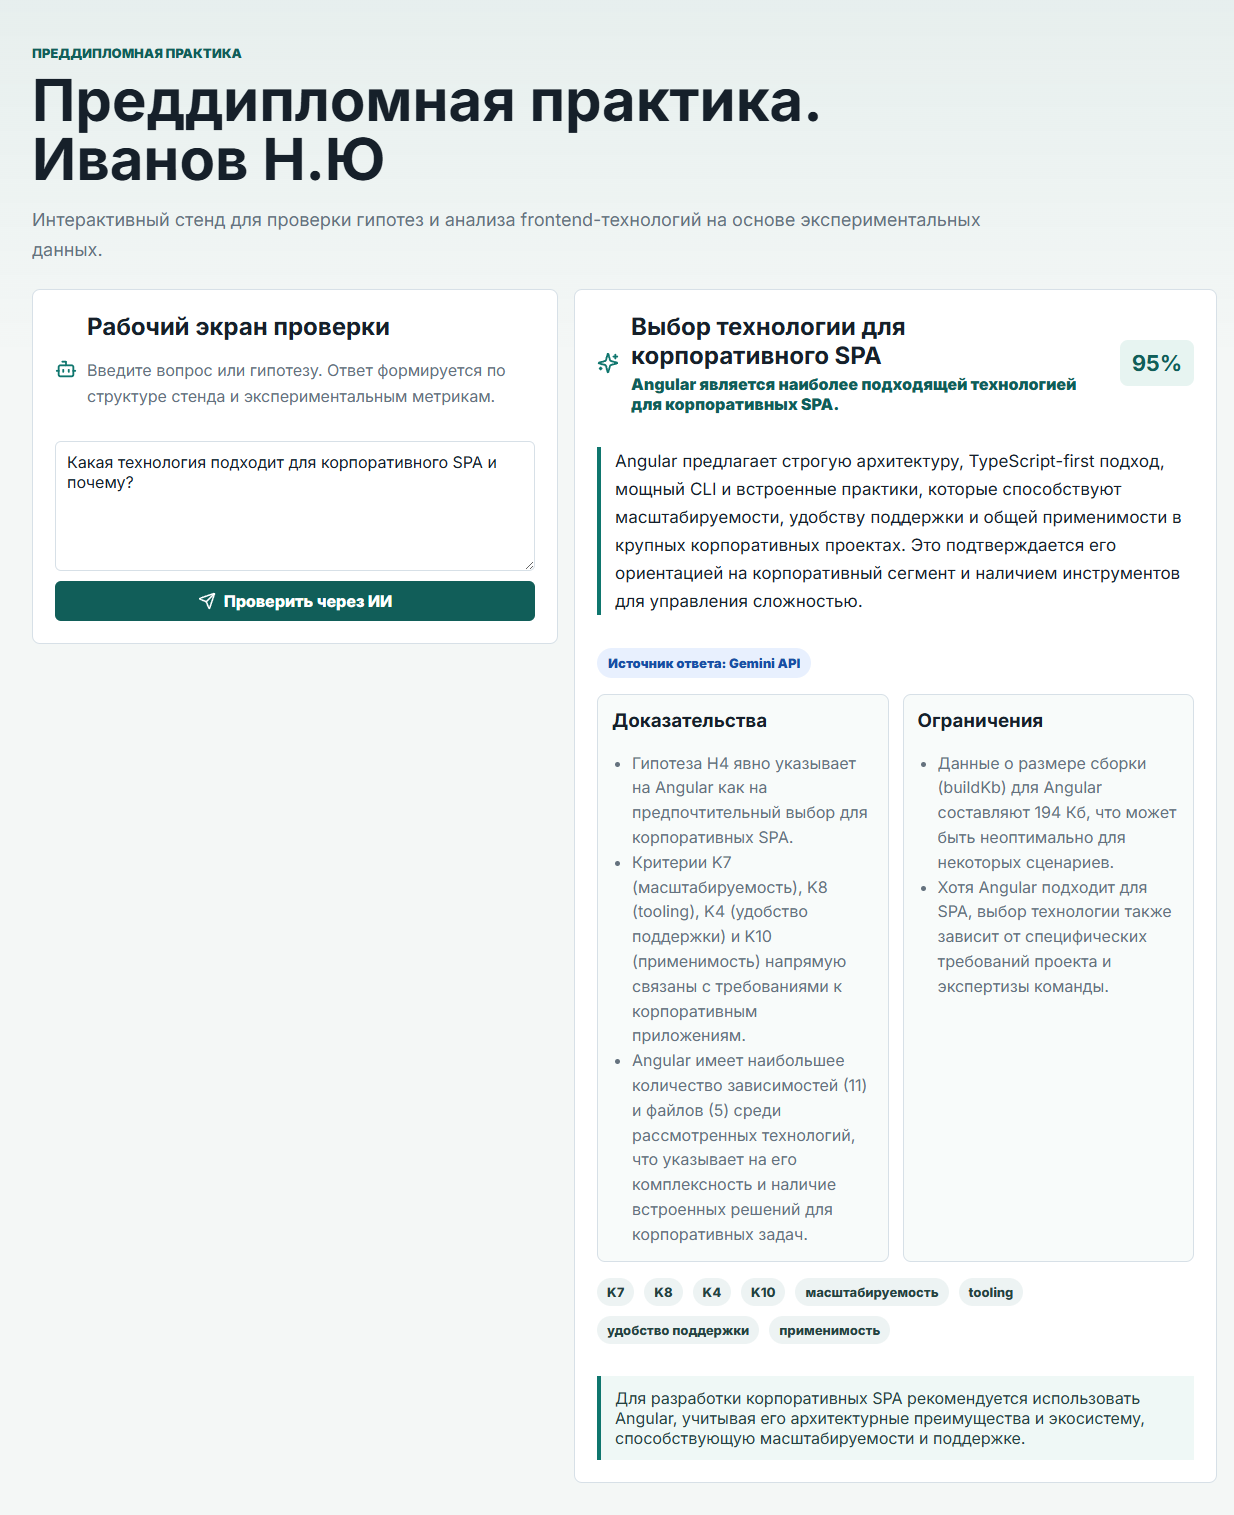
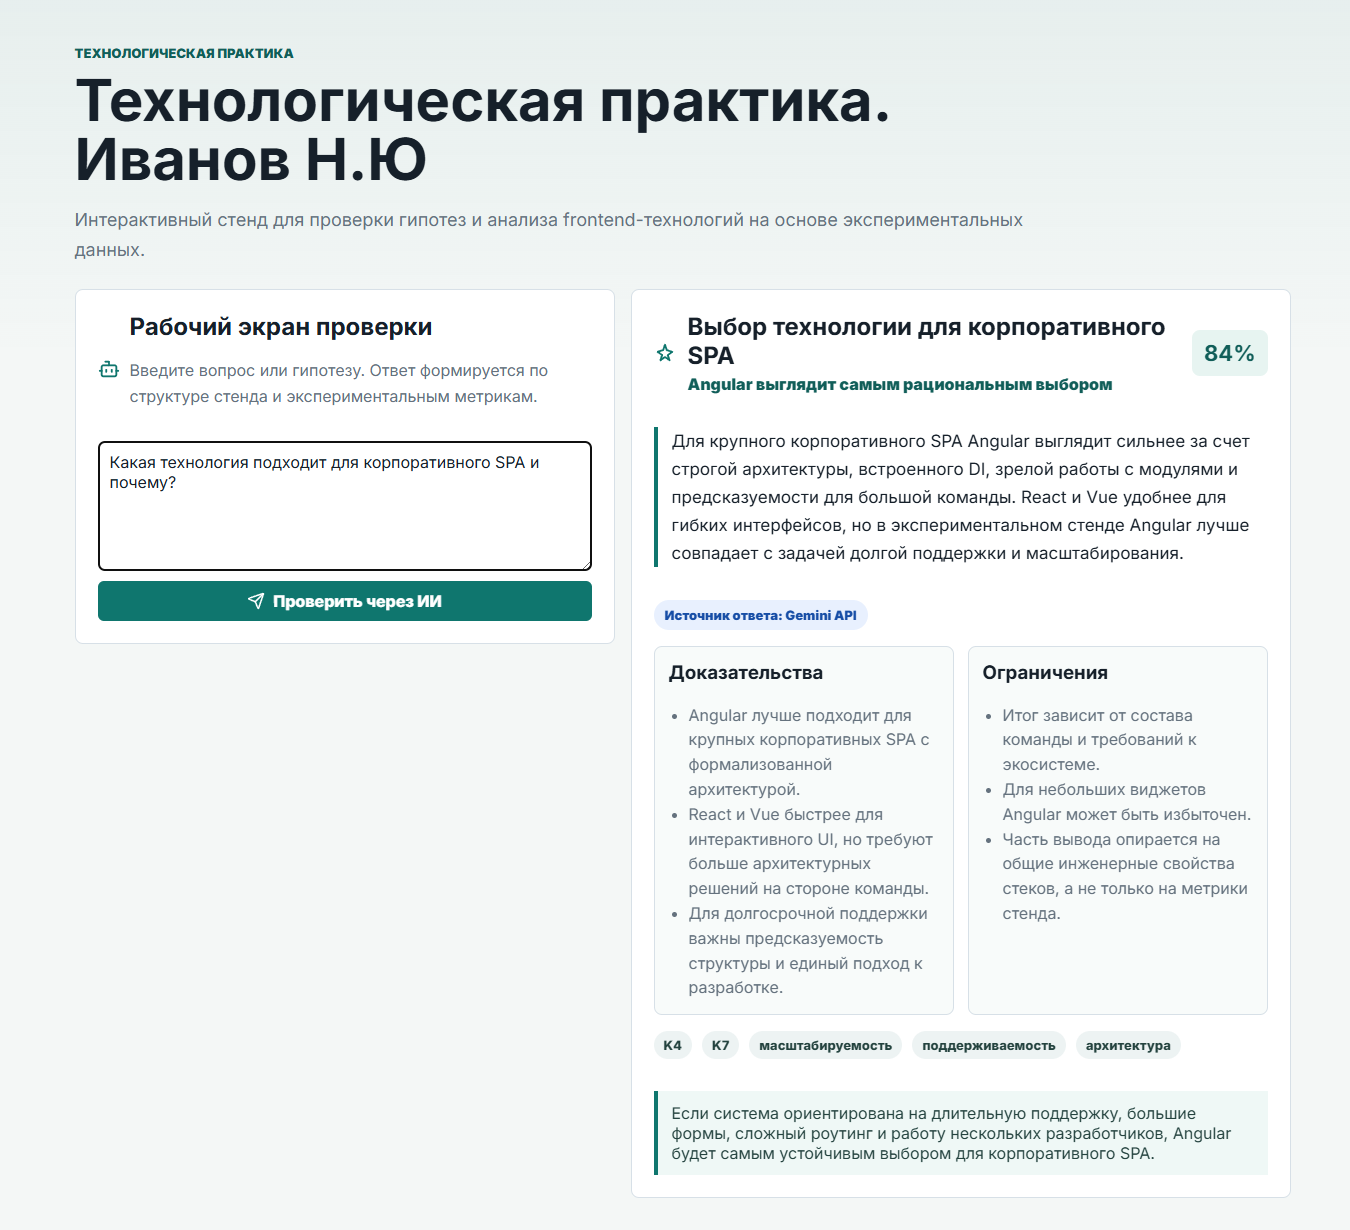
Update

diff --git a/apps/main-app/src/components/ai/HypothesisAssistant.tsx b/apps/main-app/src/components/ai/HypothesisAssistant.tsx
@@ -2,16 +2,13 @@ import { Bot, Send, Sparkles } from 'lucide-react';
 import { useState } from 'react';
 import type { AiAnswer, AiErrorPayload } from '../../data/aiEngine';
 
-const apiBaseUrl =
-  (import.meta.env.VITE_API_BASE_URL as string | undefined)?.replace(/\/$/, '') ||
-  (typeof window !== 'undefined' && window.location.hostname.endsWith('github.io') ? 'http://127.0.0.1:8080' : '');
+const apiBaseUrl = ((import.meta.env.VITE_API_BASE_URL as string | undefined) ?? '').replace(/\/$/, '');
 
 export function HypothesisAssistant() {
   const [question, setQuestion] = useState('');
   const [answer, setAnswer] = useState<AiAnswer | null>(null);
   const [isLoading, setIsLoading] = useState(false);
   const [error, setError] = useState('');
-  const isGithubPages = typeof window !== 'undefined' && window.location.hostname.endsWith('github.io');
 
   async function submitQuestion() {
     const cleanQuestion = question.trim();
@@ -33,11 +30,6 @@ export function HypothesisAssistant() {
       const data = (await response.json()) as AiAnswer | AiErrorPayload;
 
       if (!response.ok) {
-        if (isGithubPages && response.status === 404) {
-          throw new Error(
-            'На GitHub Pages доступна только статическая версия интерфейса. Серверный endpoint для Gemini API там не работает.'
-          );
-        }
         const errorMessage =
           'error' in data && data.error
             ? `${data.error}${data.retryable ? ' Можно повторить запрос немного позже.' : ''}`
@@ -63,12 +55,6 @@ export function HypothesisAssistant() {
             <p>Введите вопрос или гипотезу. Ответ формируется по структуре стенда и экспериментальным метрикам.</p>
           </div>
         </div>
-
-        {isGithubPages ? (
-          <div className="pages-hint">
-            GitHub Pages показывает фронтенд, а запросы отправляются в локальный Docker на `127.0.0.1:8080`. Контейнер должен быть запущен на этой же машине.
-          </div>
-        ) : null}
 
         <form
           className="assistant-form"
